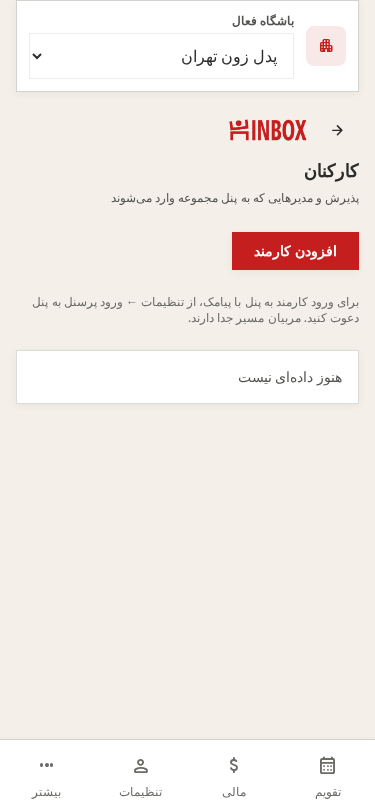
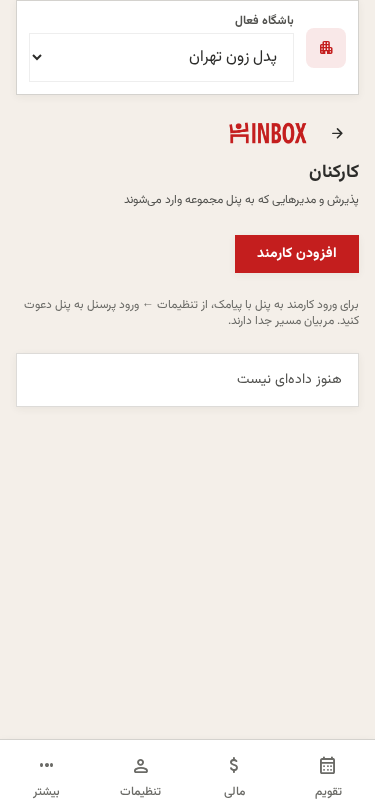
fidelity(owner-staff): wide SoT add button, flat empty panel; _sot export

diff --git a/app/assets/css/main.css b/app/assets/css/main.css
@@ -4869,3 +4869,10 @@
   .owner-support-page .canva-support-wide > section:first-child ul li::marker { color:#2c2c2a }
   .owner-support-page .canva-support-wide .neo-input { border:1px solid rgba(44,44,42,.14); border-radius:0 }
 }
+
+/* owner-staff — SoT: wide primary add button, tighter empty panel */
+@media (min-width: 1024px) {
+  .owner-staff-page .canva-sot-actions { margin-top:.25rem }
+  .owner-staff-page .canva-sot-actions .canva-gate-btn-primary { min-width:220px; min-height:44px; justify-content:center }
+  .owner-staff-page .canva-panel, .owner-staff-page > div:last-child { border-radius:0 }
+}

diff --git a/app/components/owner/OwnerWorkersPanel.vue b/app/components/owner/OwnerWorkersPanel.vue
@@ -230,7 +230,7 @@ async function confirmDelete() {
 </script>
 
 <template>
-  <div :class="embedded ? '' : 'venus-page-stack'">
+  <div :class="embedded ? '' : 'venus-page-stack owner-staff-page'">
     <CanvaSubpageHeader v-if="!embedded" to="/owner/calendar?more=1" :title="t('owner.workers')" :subtitle="t('owner.workersPage.subtitle')" />
     <OwnerActiveClubBar v-if="!embedded" class="mb-3" />
     <div v-if="!embedded" class="flex flex-wrap items-center justify-start gap-3 canva-sot-actions">
